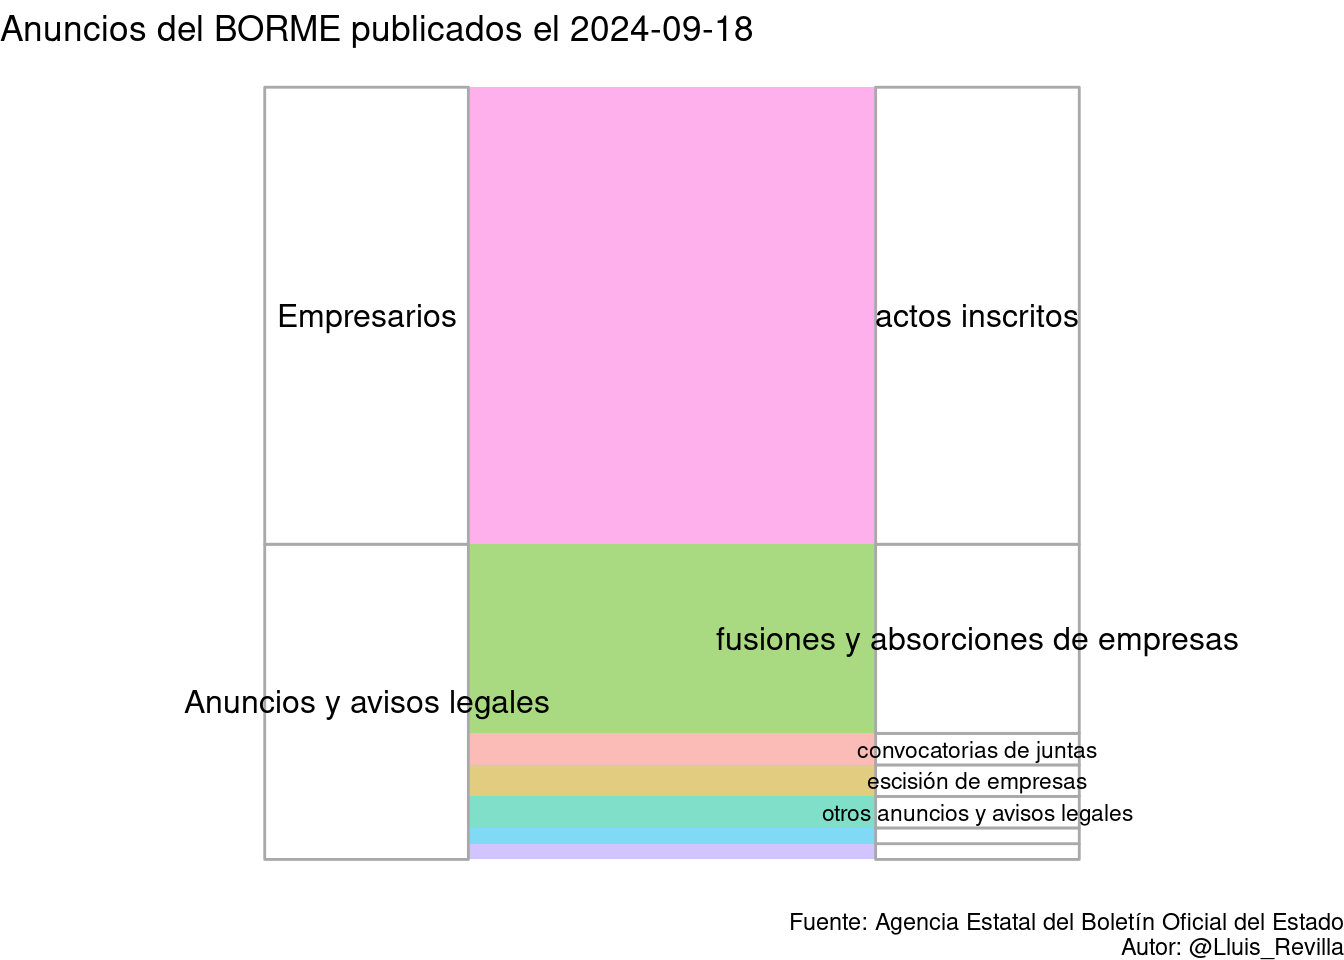
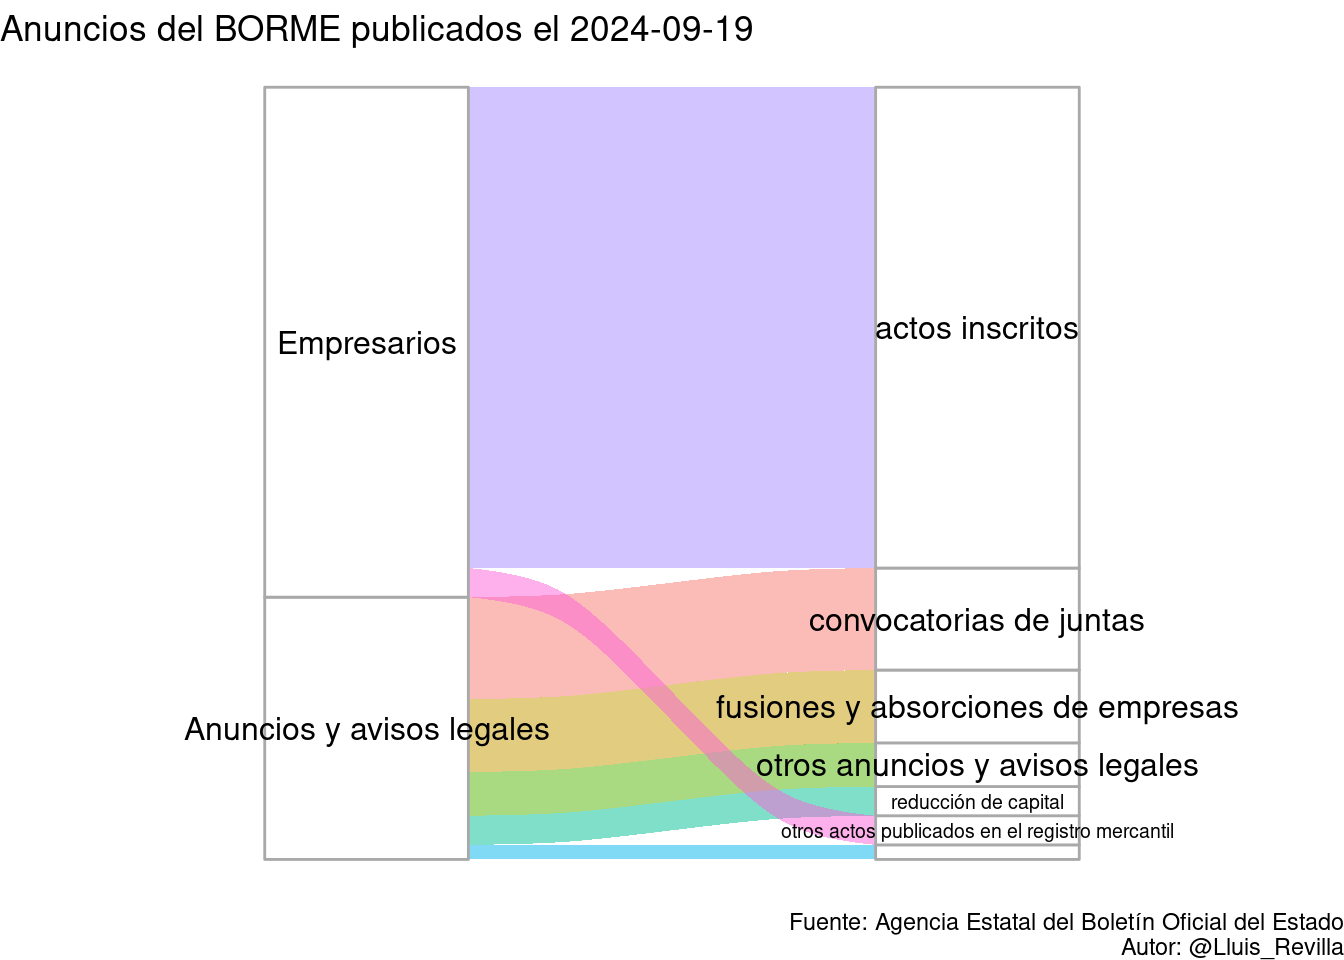
Update BORME

Changed region(s): [[0.125, 0.0938, 0.9375, 0.9062]]

diff --git a/docs/last_BORME.html b/docs/last_BORME.html
@@ -379,14 +379,14 @@ $(document).ready(function () {
 
 <div id="resumen-gráfico" class="section level1">
 <h1>Resumen gráfico</h1>
-<p>Esta página web contiene el último sumario del BORME publicado el 2024-09-18 con 49 publicaciones.</p>
+<p>Esta página web contiene el último sumario del BORME publicado el 2024-09-19 con 53 publicaciones.</p>
 <p><img src="last_BORME_files/figure-html/graphics-1.png" width="672" /></p>
 </div>
 <div id="tabla-de-publicaciones" class="section level1">
 <h1>Tabla de publicaciones</h1>
 <p>Aquí está la tabla completa con enlaces a las publicaciones:</p>
-<div class="datatables html-widget html-fill-item-overflow-hidden html-fill-item" id="htmlwidget-9e8aa956aeb253ff7dc4" style="width:100%;height:auto;"></div>
-<script type="application/json" data-for="htmlwidget-9e8aa956aeb253ff7dc4">{"x":{"filter":"top","vertical":false,"filterHTML":"<tr>\n  <td><\/td>\n  <td data-type=\"character\" style=\"vertical-align: top;\">\n    <div class=\"form-group has-feedback\" style=\"margin-bottom: auto;\">\n      <input type=\"search\" placeholder=\"All\" class=\"form-control\" style=\"width: 100%;\"/>\n      <span class=\"glyphicon glyphicon-remove-circle form-control-feedback\"><\/span>\n    <\/div>\n  <\/td>\n  <td data-type=\"character\" style=\"vertical-align: top;\">\n    <div class=\"form-group has-feedback\" style=\"margin-bottom: auto;\">\n      <input type=\"search\" placeholder=\"All\" class=\"form-control\" style=\"width: 100%;\"/>\n      <span class=\"glyphicon glyphicon-remove-circle form-control-feedback\"><\/span>\n    <\/div>\n  <\/td>\n  <td data-type=\"character\" style=\"vertical-align: top;\">\n    <div class=\"form-group has-feedback\" style=\"margin-bottom: auto;\">\n      <input type=\"search\" placeholder=\"All\" class=\"form-control\" style=\"width: 100%;\" disabled=\"\"/>\n      <span class=\"glyphicon glyphicon-remove-circle form-control-feedback\"><\/span>\n    <\/div>\n  <\/td>\n  <td data-type=\"character\" style=\"vertical-align: top;\">\n    <div class=\"form-group has-feedback\" style=\"margin-bottom: auto;\">\n      <input type=\"search\" placeholder=\"All\" class=\"form-control\" style=\"width: 100%;\"/>\n      <span class=\"glyphicon glyphicon-remove-circle form-control-feedback\"><\/span>\n    <\/div>\n  <\/td>\n<\/tr>","data":[["1","2","3","4","5","6","7","8","9","10","11","12","13","14","15","16","17","18","19","20","21","22","23","24","25","26","27","28","29","30","31","32","33","34","35","36","37","38","39","40","41","42","43","44","45","46","47","48","49"],["SECCIÓN PRIMERA. Empresarios","SECCIÓN PRIMERA. Empresarios","SECCIÓN PRIMERA. Empresarios","SECCIÓN PRIMERA. Empresarios","SECCIÓN PRIMERA. Empresarios","SECCIÓN PRIMERA. Empresarios","SECCIÓN PRIMERA. Empresarios","SECCIÓN PRIMERA. Empresarios","SECCIÓN PRIMERA. Empresarios","SECCIÓN PRIMERA. Empresarios","SECCIÓN PRIMERA. Empresarios","SECCIÓN PRIMERA. Empresarios","SECCIÓN PRIMERA. Empresarios","SECCIÓN PRIMERA. Empresarios","SECCIÓN PRIMERA. Empresarios","SECCIÓN PRIMERA. Empresarios","SECCIÓN PRIMERA. Empresarios","SECCIÓN PRIMERA. Empresarios","SECCIÓN PRIMERA. Empresarios","SECCIÓN PRIMERA. Empresarios","SECCIÓN PRIMERA. Empresarios","SECCIÓN PRIMERA. Empresarios","SECCIÓN PRIMERA. Empresarios","SECCIÓN PRIMERA. Empresarios","SECCIÓN PRIMERA. Empresarios","SECCIÓN PRIMERA. Empresarios","SECCIÓN PRIMERA. Empresarios","SECCIÓN PRIMERA. Empresarios","SECCIÓN PRIMERA. Empresarios","SECCIÓN SEGUNDA. Anuncios y avisos legales","SECCIÓN SEGUNDA. Anuncios y avisos legales","SECCIÓN SEGUNDA. Anuncios y avisos legales","SECCIÓN SEGUNDA. Anuncios y avisos legales","SECCIÓN SEGUNDA. Anuncios y avisos legales","SECCIÓN SEGUNDA. Anuncios y avisos legales","SECCIÓN SEGUNDA. Anuncios y avisos legales","SECCIÓN SEGUNDA. Anuncios y avisos legales","SECCIÓN SEGUNDA. Anuncios y avisos legales","SECCIÓN SEGUNDA. Anuncios y avisos legales","SECCIÓN SEGUNDA. Anuncios y avisos legales","SECCIÓN SEGUNDA. Anuncios y avisos legales","SECCIÓN SEGUNDA. Anuncios y avisos legales","SECCIÓN SEGUNDA. Anuncios y avisos legales","SECCIÓN SEGUNDA. Anuncios y avisos legales","SECCIÓN SEGUNDA. Anuncios y avisos legales","SECCIÓN SEGUNDA. Anuncios y avisos legales","SECCIÓN SEGUNDA. Anuncios y avisos legales","SECCIÓN SEGUNDA. Anuncios y avisos legales","SECCIÓN SEGUNDA. Anuncios y avisos legales"],["Actos inscritos","Actos inscritos","Actos inscritos","Actos inscritos","Actos inscritos","Actos inscritos","Actos inscritos","Actos inscritos","Actos inscritos","Actos inscritos","Actos inscritos","Actos inscritos","Actos inscritos","Actos inscritos","Actos inscritos","Actos inscritos","Actos inscritos","Actos inscritos","Actos inscritos","Actos inscritos","Actos inscritos","Actos inscritos","Actos inscritos","Actos inscritos","Actos inscritos","Actos inscritos","Actos inscritos","Actos inscritos","Actos inscritos","CONVOCATORIAS DE JUNTAS","CONVOCATORIAS DE JUNTAS","FUSIONES Y ABSORCIONES DE EMPRESAS","FUSIONES Y ABSORCIONES DE EMPRESAS","FUSIONES Y ABSORCIONES DE EMPRESAS","FUSIONES Y ABSORCIONES DE EMPRESAS","FUSIONES Y ABSORCIONES DE EMPRESAS","FUSIONES Y ABSORCIONES DE EMPRESAS","FUSIONES Y ABSORCIONES DE EMPRESAS","FUSIONES Y ABSORCIONES DE EMPRESAS","FUSIONES Y ABSORCIONES DE EMPRESAS","FUSIONES Y ABSORCIONES DE EMPRESAS","FUSIONES Y ABSORCIONES DE EMPRESAS","FUSIONES Y ABSORCIONES DE EMPRESAS","ESCISIÓN DE EMPRESAS","ESCISIÓN DE EMPRESAS","TRANSFORMACIÓN DE EMPRESAS","REDUCCIÓN DE CAPITAL","OTROS ANUNCIOS Y AVISOS LEGALES","OTROS ANUNCIOS Y AVISOS LEGALES"],[null,null,null,null,null,null,null,null,null,null,null,null,null,null,null,null,null,null,null,null,null,null,null,null,null,null,null,null,null,null,null,null,null,null,null,null,null,null,null,null,null,null,null,null,null,null,null,null,null],["BORME-A-2024-180-04","BORME-A-2024-180-06","BORME-A-2024-180-07","BORME-A-2024-180-08","BORME-A-2024-180-10","BORME-A-2024-180-11","BORME-A-2024-180-12","BORME-A-2024-180-13","BORME-A-2024-180-15","BORME-A-2024-180-17","BORME-A-2024-180-18","BORME-A-2024-180-22","BORME-A-2024-180-23","BORME-A-2024-180-24","BORME-A-2024-180-26","BORME-A-2024-180-28","BORME-A-2024-180-29","BORME-A-2024-180-30","BORME-A-2024-180-31","BORME-A-2024-180-34","BORME-A-2024-180-35","BORME-A-2024-180-36","BORME-A-2024-180-40","BORME-A-2024-180-41","BORME-A-2024-180-43","BORME-A-2024-180-46","BORME-A-2024-180-47","BORME-A-2024-180-50","BORME-A-2024-180-99","BORME-C-2024-5171","BORME-C-2024-5172","BORME-C-2024-5173","BORME-C-2024-5174","BORME-C-2024-5175","BORME-C-2024-5176","BORME-C-2024-5177","BORME-C-2024-5178","BORME-C-2024-5179","BORME-C-2024-5180","BORME-C-2024-5181","BORME-C-2024-5182","BORME-C-2024-5183","BORME-C-2024-5184","BORME-C-2024-5185","BORME-C-2024-5186","BORME-C-2024-5187","BORME-C-2024-5188","BORME-C-2024-5189","BORME-C-2024-5190"]],"container":"<table class=\"display\">\n  <thead>\n    <tr>\n      <th> <\/th>\n      <th>Sección<\/th>\n      <th>Emisor<\/th>\n      <th>Texto<\/th>\n      <th>Link<\/th>\n    <\/tr>\n  <\/thead>\n<\/table>","options":{"pageLength":10,"autoWidth":true,"columnDefs":[{"orderable":false,"targets":0},{"name":" ","targets":0},{"name":"Sección","targets":1},{"name":"Emisor","targets":2},{"name":"Texto","targets":3},{"name":"Link","targets":4}],"order":[],"orderClasses":false,"orderCellsTop":true}},"evals":[],"jsHooks":[]}</script>
+<div class="datatables html-widget html-fill-item-overflow-hidden html-fill-item" id="htmlwidget-9c211c0bf1b2f3695037" style="width:100%;height:auto;"></div>
+<script type="application/json" data-for="htmlwidget-9c211c0bf1b2f3695037">{"x":{"filter":"top","vertical":false,"filterHTML":"<tr>\n  <td><\/td>\n  <td data-type=\"character\" style=\"vertical-align: top;\">\n    <div class=\"form-group has-feedback\" style=\"margin-bottom: auto;\">\n      <input type=\"search\" placeholder=\"All\" class=\"form-control\" style=\"width: 100%;\"/>\n      <span class=\"glyphicon glyphicon-remove-circle form-control-feedback\"><\/span>\n    <\/div>\n  <\/td>\n  <td data-type=\"character\" style=\"vertical-align: top;\">\n    <div class=\"form-group has-feedback\" style=\"margin-bottom: auto;\">\n      <input type=\"search\" placeholder=\"All\" class=\"form-control\" style=\"width: 100%;\"/>\n      <span class=\"glyphicon glyphicon-remove-circle form-control-feedback\"><\/span>\n    <\/div>\n  <\/td>\n  <td data-type=\"character\" style=\"vertical-align: top;\">\n    <div class=\"form-group has-feedback\" style=\"margin-bottom: auto;\">\n      <input type=\"search\" placeholder=\"All\" class=\"form-control\" style=\"width: 100%;\" disabled=\"\"/>\n      <span class=\"glyphicon glyphicon-remove-circle form-control-feedback\"><\/span>\n    <\/div>\n  <\/td>\n  <td data-type=\"character\" style=\"vertical-align: top;\">\n    <div class=\"form-group has-feedback\" style=\"margin-bottom: auto;\">\n      <input type=\"search\" placeholder=\"All\" class=\"form-control\" style=\"width: 100%;\"/>\n      <span class=\"glyphicon glyphicon-remove-circle form-control-feedback\"><\/span>\n    <\/div>\n  <\/td>\n<\/tr>","data":[["1","2","3","4","5","6","7","8","9","10","11","12","13","14","15","16","17","18","19","20","21","22","23","24","25","26","27","28","29","30","31","32","33","34","35","36","37","38","39","40","41","42","43","44","45","46","47","48","49","50","51","52","53"],["SECCIÓN PRIMERA. Empresarios","SECCIÓN PRIMERA. Empresarios","SECCIÓN PRIMERA. Empresarios","SECCIÓN PRIMERA. Empresarios","SECCIÓN PRIMERA. Empresarios","SECCIÓN PRIMERA. Empresarios","SECCIÓN PRIMERA. Empresarios","SECCIÓN PRIMERA. Empresarios","SECCIÓN PRIMERA. Empresarios","SECCIÓN PRIMERA. Empresarios","SECCIÓN PRIMERA. Empresarios","SECCIÓN PRIMERA. Empresarios","SECCIÓN PRIMERA. Empresarios","SECCIÓN PRIMERA. Empresarios","SECCIÓN PRIMERA. Empresarios","SECCIÓN PRIMERA. Empresarios","SECCIÓN PRIMERA. Empresarios","SECCIÓN PRIMERA. Empresarios","SECCIÓN PRIMERA. Empresarios","SECCIÓN PRIMERA. Empresarios","SECCIÓN PRIMERA. Empresarios","SECCIÓN PRIMERA. Empresarios","SECCIÓN PRIMERA. Empresarios","SECCIÓN PRIMERA. Empresarios","SECCIÓN PRIMERA. Empresarios","SECCIÓN PRIMERA. Empresarios","SECCIÓN PRIMERA. Empresarios","SECCIÓN PRIMERA. Empresarios","SECCIÓN PRIMERA. Empresarios","SECCIÓN PRIMERA. Empresarios","SECCIÓN PRIMERA. Empresarios","SECCIÓN PRIMERA. Empresarios","SECCIÓN PRIMERA. Empresarios","SECCIÓN PRIMERA. Empresarios","SECCIÓN PRIMERA. Empresarios","SECCIÓN SEGUNDA. Anuncios y avisos legales","SECCIÓN SEGUNDA. Anuncios y avisos legales","SECCIÓN SEGUNDA. Anuncios y avisos legales","SECCIÓN SEGUNDA. Anuncios y avisos legales","SECCIÓN SEGUNDA. Anuncios y avisos legales","SECCIÓN SEGUNDA. Anuncios y avisos legales","SECCIÓN SEGUNDA. Anuncios y avisos legales","SECCIÓN SEGUNDA. Anuncios y avisos legales","SECCIÓN SEGUNDA. Anuncios y avisos legales","SECCIÓN SEGUNDA. Anuncios y avisos legales","SECCIÓN SEGUNDA. Anuncios y avisos legales","SECCIÓN SEGUNDA. Anuncios y avisos legales","SECCIÓN SEGUNDA. Anuncios y avisos legales","SECCIÓN SEGUNDA. Anuncios y avisos legales","SECCIÓN SEGUNDA. Anuncios y avisos legales","SECCIÓN SEGUNDA. Anuncios y avisos legales","SECCIÓN SEGUNDA. Anuncios y avisos legales","SECCIÓN SEGUNDA. Anuncios y avisos legales"],["Actos inscritos","Actos inscritos","Actos inscritos","Actos inscritos","Actos inscritos","Actos inscritos","Actos inscritos","Actos inscritos","Actos inscritos","Actos inscritos","Actos inscritos","Actos inscritos","Actos inscritos","Actos inscritos","Actos inscritos","Actos inscritos","Actos inscritos","Actos inscritos","Actos inscritos","Actos inscritos","Actos inscritos","Actos inscritos","Actos inscritos","Actos inscritos","Actos inscritos","Actos inscritos","Actos inscritos","Actos inscritos","Actos inscritos","Actos inscritos","Actos inscritos","Actos inscritos","Actos inscritos","Otros actos publicados en el Registro Mercantil","Otros actos publicados en el Registro Mercantil","CONVOCATORIAS DE JUNTAS","CONVOCATORIAS DE JUNTAS","CONVOCATORIAS DE JUNTAS","CONVOCATORIAS DE JUNTAS","CONVOCATORIAS DE JUNTAS","CONVOCATORIAS DE JUNTAS","CONVOCATORIAS DE JUNTAS","FUSIONES Y ABSORCIONES DE EMPRESAS","FUSIONES Y ABSORCIONES DE EMPRESAS","FUSIONES Y ABSORCIONES DE EMPRESAS","FUSIONES Y ABSORCIONES DE EMPRESAS","FUSIONES Y ABSORCIONES DE EMPRESAS","TRANSFORMACIÓN DE EMPRESAS","REDUCCIÓN DE CAPITAL","REDUCCIÓN DE CAPITAL","OTROS ANUNCIOS Y AVISOS LEGALES","OTROS ANUNCIOS Y AVISOS LEGALES","OTROS ANUNCIOS Y AVISOS LEGALES"],[null,null,null,null,null,null,null,null,null,null,null,null,null,null,null,null,null,null,null,null,null,null,null,null,null,null,null,null,null,null,null,null,null,null,null,null,null,null,null,null,null,null,null,null,null,null,null,null,null,null,null,null,null],["BORME-A-2024-181-02","BORME-A-2024-181-03","BORME-A-2024-181-04","BORME-A-2024-181-06","BORME-A-2024-181-07","BORME-A-2024-181-08","BORME-A-2024-181-09","BORME-A-2024-181-11","BORME-A-2024-181-13","BORME-A-2024-181-14","BORME-A-2024-181-15","BORME-A-2024-181-16","BORME-A-2024-181-17","BORME-A-2024-181-18","BORME-A-2024-181-21","BORME-A-2024-181-22","BORME-A-2024-181-23","BORME-A-2024-181-24","BORME-A-2024-181-26","BORME-A-2024-181-28","BORME-A-2024-181-29","BORME-A-2024-181-32","BORME-A-2024-181-33","BORME-A-2024-181-35","BORME-A-2024-181-37","BORME-A-2024-181-39","BORME-A-2024-181-44","BORME-A-2024-181-45","BORME-A-2024-181-46","BORME-A-2024-181-47","BORME-A-2024-181-48","BORME-A-2024-181-50","BORME-A-2024-181-99","BORME-B-2024-181-01","BORME-B-2024-181-28","BORME-C-2024-5191","BORME-C-2024-5192","BORME-C-2024-5193","BORME-C-2024-5194","BORME-C-2024-5195","BORME-C-2024-5196","BORME-C-2024-5197","BORME-C-2024-5198","BORME-C-2024-5199","BORME-C-2024-5200","BORME-C-2024-5201","BORME-C-2024-5202","BORME-C-2024-5203","BORME-C-2024-5204","BORME-C-2024-5205","BORME-C-2024-5206","BORME-C-2024-5207","BORME-C-2024-5208"]],"container":"<table class=\"display\">\n  <thead>\n    <tr>\n      <th> <\/th>\n      <th>Sección<\/th>\n      <th>Emisor<\/th>\n      <th>Texto<\/th>\n      <th>Link<\/th>\n    <\/tr>\n  <\/thead>\n<\/table>","options":{"pageLength":10,"autoWidth":true,"columnDefs":[{"orderable":false,"targets":0},{"name":" ","targets":0},{"name":"Sección","targets":1},{"name":"Emisor","targets":2},{"name":"Texto","targets":3},{"name":"Link","targets":4}],"order":[],"orderClasses":false,"orderCellsTop":true}},"evals":[],"jsHooks":[]}</script>
 </div>
 
 
